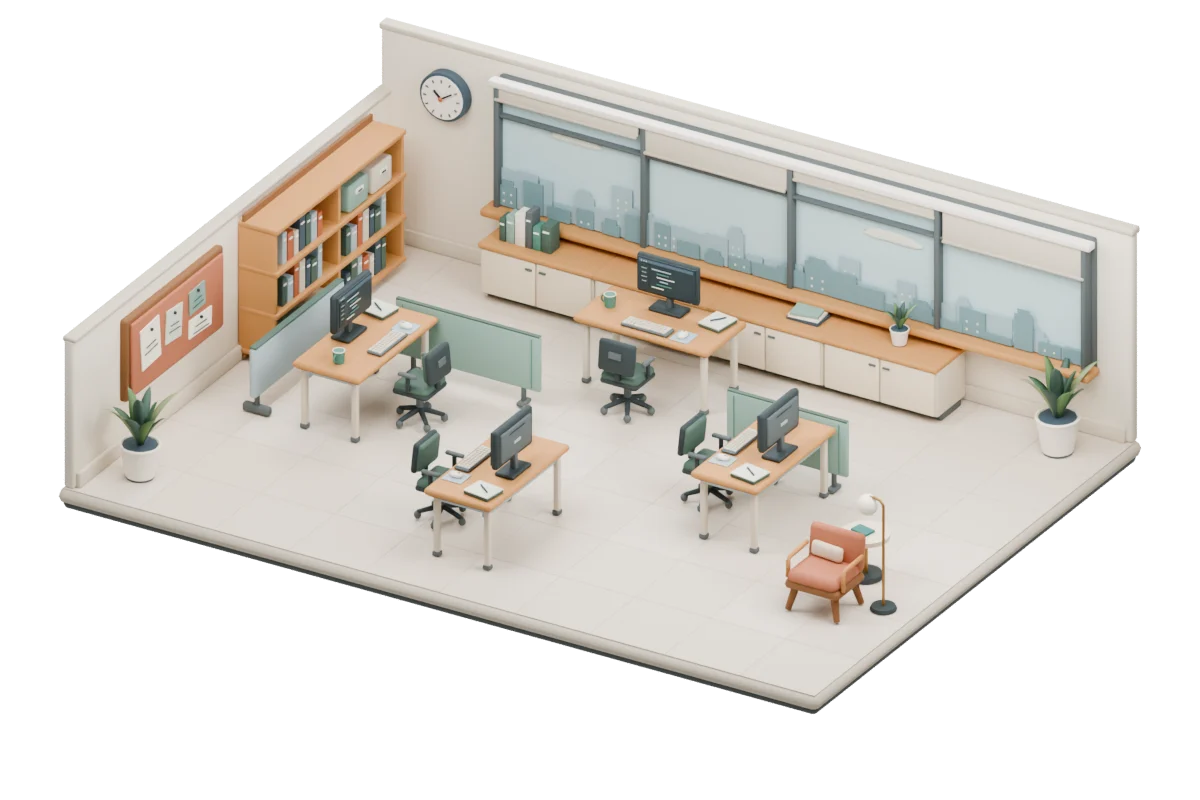
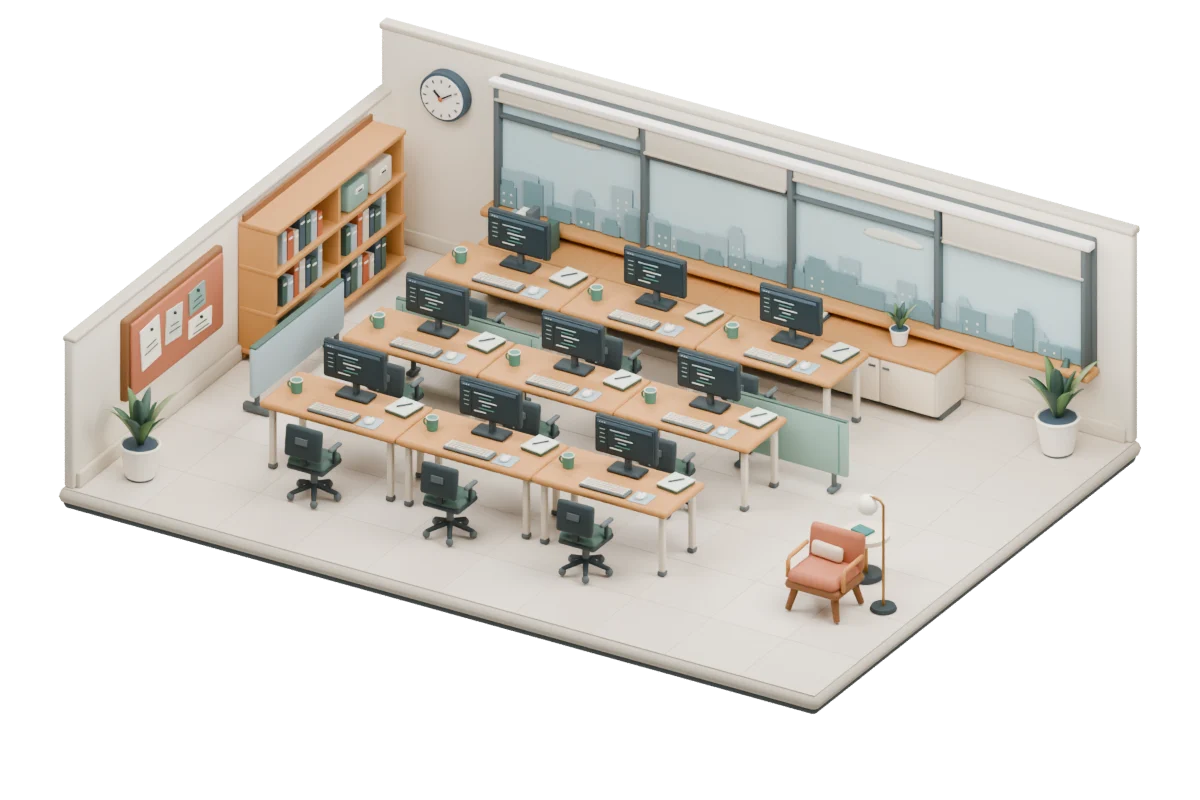
fix(web): arrange all office desks in three parallel rows

Changed region(s): [[0.2158, 0.25, 0.7708, 0.75], [0.4008, 0.6875, 0.4317, 0.7188]]

diff --git a/worker/ui/office-scene.ts b/worker/ui/office-scene.ts
@@ -2,10 +2,6 @@ import * as THREE from "three";
 import { GLTFLoader } from "three/addons/loaders/GLTFLoader.js";
 import { OrbitControls } from "three/addons/controls/OrbitControls.js";
 
-const positions = [
-  [-0.45, 2.5, -Math.PI / 2], [2.45, 0.2, -Math.PI / 2], [-3.35, 0.2, Math.PI / 2], [-0.45, -2.1, 0],
-  [2.45, 2.5, Math.PI], [-3.35, -2.1, Math.PI], [2.45, -2.1, 0], [-3.35, 2.5, Math.PI / 2], [-0.45, 0.2, Math.PI],
-] as const;
 const home = new THREE.Vector3(8, 10.2, 13);
 const target = new THREE.Vector3(0, 1.52, 0);
 type Desk = {
@@ -175,10 +171,14 @@ export class OfficeScene {
     ground.position.y = baseY - 0.03;
     ground.receiveShadow = true;
     this.world.add(ground);
-    for (const [x, z, angle] of positions) {
+    // The room GLB carries the desk transforms from the editable Blender layout.
+    const anchors = room.children.filter(node => /^DeskAnchor_\d{2}$/.test(node.name))
+      .sort((left, right) => left.name.localeCompare(right.name));
+    if (anchors.length !== 9) throw new Error("Incomplete office layout.");
+    for (const anchor of anchors) {
       const group = new THREE.Group();
-      group.position.set(x, 0, z);
-      group.rotation.y = angle;
+      group.position.copy(anchor.position);
+      group.quaternion.copy(anchor.quaternion);
       group.add(station.clone(true));
       this.furniture.add(group);
       this.desks.push({group, arms: []});
@@ -192,7 +192,6 @@ export class OfficeScene {
     this.seats = ids;
     for (const [i, desk] of this.desks.entries()) {
       const id = ids[i];
-      desk.group.visible = i < 4 || !!id;
       if (desk.id === id) continue;
       if (desk.person) desk.group.remove(desk.person);
       desk.id = id;
